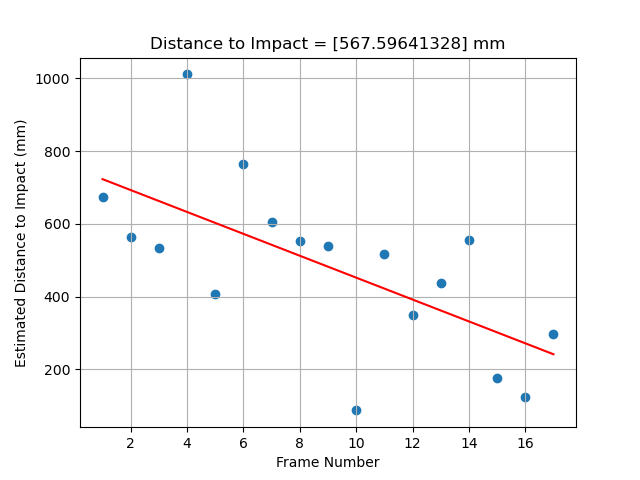
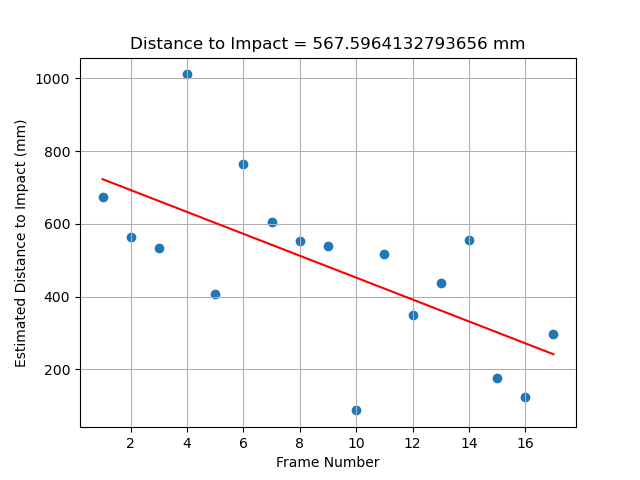
figure title correction

Changed region(s): [[0.1875, 0.0625, 0.8125, 0.125]]

diff --git a/hw7/2.py b/hw7/2.py
@@ -64,7 +64,7 @@ frame_nums = np.linspace(1, len(d), num=len(d))
 coeffs = np.polyfit(frame_nums, d, 1)
 p = np.poly1d(coeffs)
 x_fit = p(frame_nums)
-x_guess = np.mean([p(0), np.roots(coeffs) * dist_per_frame])
+x_guess = np.mean([p(0), np.roots(coeffs)[0] * dist_per_frame])
 
 fig = plt.figure(1)
 plt.scatter(frame_nums, d)

diff --git a/hw7/1.py b/hw7/1.py
@@ -63,7 +63,7 @@ frame_nums = np.linspace(1, len(tau), num=len(tau))
 coeffs = np.polyfit(frame_nums, tau, 1)
 p = np.poly1d(coeffs)
 x_fit = p(frame_nums)
-x_guess = np.mean([p(0), np.roots(coeffs)])
+x_guess = np.mean([p(0), np.roots(coeffs)[0]])
 
 fig = plt.figure(1)
 plt.scatter(frame_nums, tau)
